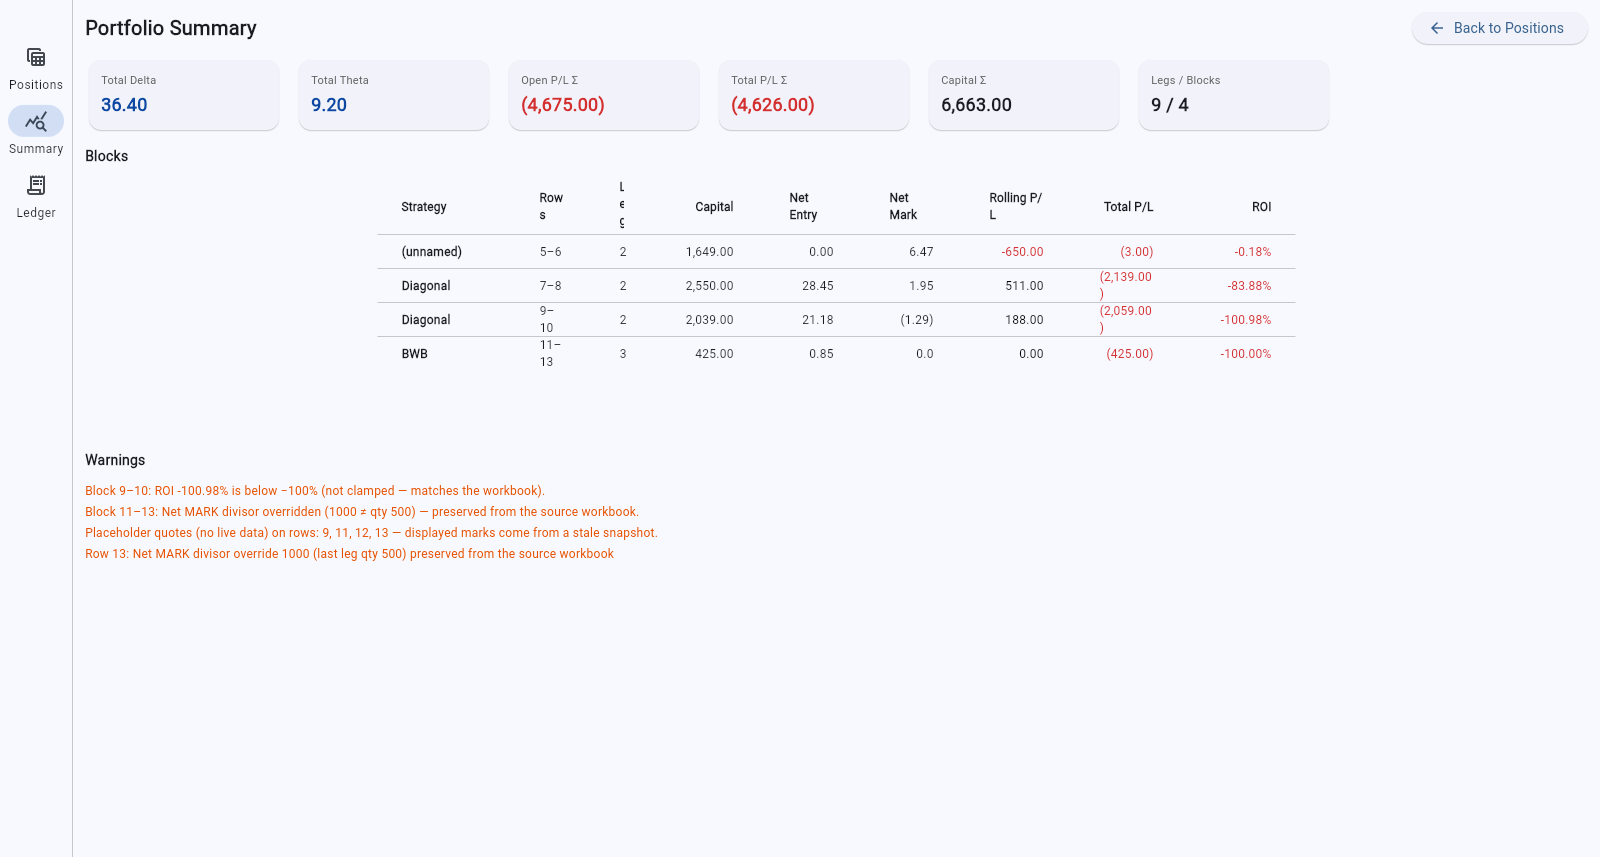
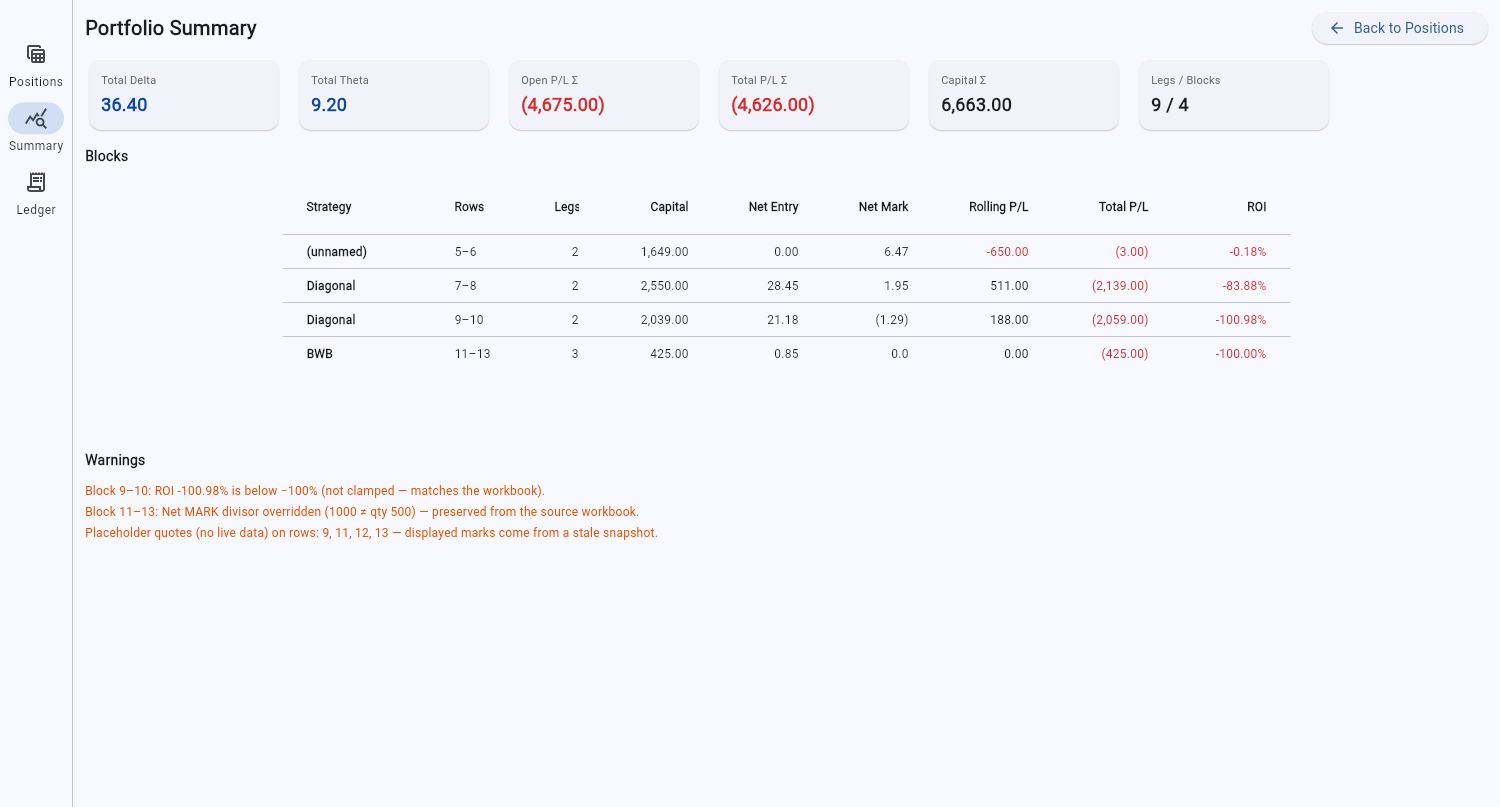
Update test report and summary screenshot for the six defect fixes
Mark DEF-1..DEF-6 fixed with their resolutions, move the suite counts to
412 passed / 0 xfailed, and regenerate docs/screenshots/summary.png from a
live flet run --web build: single-line headers and one Net MARK divisor
warning.

diff --git a/docs/test_report.md b/docs/test_report.md
@@ -1,12 +1,13 @@
 # OTP Tracker — Test Report
 
 **Task:** `t_68d30dd1` — *Test the Flet dashboard against OTPTracker.xlsx entries*
-**Application:** `~/projects/option-dboard-2` (git `master` @ `50e309d`)
+**Application:** `~/projects/option-dboard-2` (git `master`)
 **Report date:** 2026-11-07
 **Verdict:** **PASS for data correctness.** All 73 workbook golden cells match the
 original in three independent passes (fixture, live workbook, export→re-import).
-Four documented defects remain open (none changes a computed value); they are
-pinned by `xfail(strict=True)` tests and routed to `coder` as a follow-up card.
+The six defects reported here were fixed under `t_aa7db0b2`; the four functional
+ones are now guarded by ordinary (non-xfail) regression tests and the two visual
+ones were re-checked in a running web build.
 
 ---
 
@@ -26,7 +27,7 @@ pinned by `xfail(strict=True)` tests and routed to `coder` as a follow-up card.
 
 ```bash
 cd ~/projects/option-dboard-2
-.venv/bin/python -m pytest -q                 # 412 tests: 408 pass, 4 xfail
+.venv/bin/python -m pytest -q                 # 412 tests: 412 pass, 0 xfail
 .venv/bin/python scripts/verify_acceptance.py # 73 golden cells × 3 passes
 .venv/bin/python scripts/verify_ui_smoke.py   # headless control-tree smoke
 ```
@@ -38,7 +39,7 @@ gets a fresh copy of the seed and a `tmp_path` store; it never writes
 ## 3. Result summary
 
 ```
-408 passed, 4 xfailed in 20.49s   (412 collected)
+412 passed in 21.95s   (412 collected)
 ```
 
 | Suite | Tests | What it pins |
@@ -54,8 +55,9 @@ gets a fresh copy of the seed and a `tmp_path` store; it never writes
 | `test_acceptance_fixtures.py` | 19 | §14.2 golden table + structure/quotes/purple/ledger/display |
 | **Total** | **412** | |
 
-`xfail(strict=True)` counts are included above; a future fix flips them to
-`XPASS`, which fails the suite and forces the defect entry to be removed.
+`xfail(strict=True)` markers were removed once each fix landed; the four tests
+that used to pin the functional defects are now plain regression tests, so a
+re-break fails the suite.
 
 ## 4. Data parity — the acceptance gate
 
@@ -142,20 +144,23 @@ HTTP 200, then driven in headless Chromium via CDP (screenshots in
 | Screenshot | What was verified |
 |---|---|
 | `positions.png` | Title/banners/as-of, 26-column grid, real values incl. `(1,170.00)`, totals strip `36.40 / 9.20 / (4,626.00) / 6,663.00`, status reports the imported file |
-| `summary.png` | Cards `36.40`, `9.20`, `(4,675.00)`, `(4,626.00)`, `6,663.00`, `9 / 4`; four block rows with correct ROI `-0.18% / -83.88% / -100.98% / -100.00%`; warning list |
+| `summary.png` | Regenerated after the DEF-5/DEF-6 fixes: cards `36.40`, `9.20`, `(4,675.00)`, `(4,626.00)`, `6,663.00`, `9 / 4`; four block rows with correct ROI `-0.18% / -83.88% / -100.98% / -100.00%`; header labels “Rows”, “Legs”, “Rolling P/L”, “Total P/L” on one line; exactly one Net MARK divisor warning |
 | `ledger.png` | Feb/Mar 2022 groups, NKE/GLD/ADBE/FB/SPX/XOP, `(354.00)` style, GLD extra `-680.00`, footer totals |
 | `add_leg_dialog.png` | Add-Leg modal: all fields, BWB strategy, pre-filled capital 425 / divisor 1000, Cancel/Save, no clipping |
 | `market_hidden.png` | Toggle reads “Show market data (N–W)”; N–W columns absent; totals unchanged |
 
-No value mismatch was seen in the running app. Visual defects found: DEF-5 and
-DEF-6 below.
+No value mismatch was seen in the running app. Visual defects DEF-5 and DEF-6
+were found in the first pass and re-verified fixed against a fresh web run
+(`flet run --web -p 8550`, headless Chromium over CDP).
 
-## 7. Open defects
+## 7. Defects (all fixed)
 
-All are pinned by `xfail(strict=True)` tests so they cannot silently regress.
-None affects a computed cell or the Excel acceptance table.
+Every defect below was fixed in production code only; none affects a computed
+cell or the Excel acceptance table. The four functional ones are now guarded by
+ordinary regression tests (the `xfail(strict=True)` markers were removed, so a
+re-break fails the suite).
 
-### DEF-1 — Roll parser corrupts pair-only literals (P2, functional)
+### DEF-1 — Roll parser corrupts pair-only literals (P2, functional) — **FIXED**
 
 `src/otp_tracker/models.py:261-266` (`RollLedger.from_expression`)
 
@@ -167,10 +172,14 @@ None affects a computed cell or the Excel acceptance table.
   `-150.0`. Same for two pairs without a trailing credit: `-350.0` instead of
   `150.0`.
 - **Repro:** `tests/test_models.py::test_pair_only_literal_round_trip`.
+- **Fix:** `from_expression` no longer peels parentheses; it consumes every
+  `(new-closed)` group structurally and treats the wrapper as punctuation.
+  `=((2-1.5))*100` → pair `(2.0, 1.5)`, value `50.0`; the two-pair literal
+  `=((2-1.5)+(3-2))*100` → `150.0`.
 - **Impact:** pasting a valid single-pair/two-pair literal into the Roll dialog
   (or re-parsing a rendered pair-only ledger) silently changes X.
 
-### DEF-2 — Roll parser accepts garbage silently (P3, defensive)
+### DEF-2 — Roll parser accepts garbage silently (P3, defensive) — **FIXED**
 
 `src/otp_tracker/models.py:251-269`
 
@@ -180,9 +189,12 @@ None affects a computed cell or the Excel acceptance table.
   and `value() == 0.0`; only a partial `"=(1.34-1.55)*100"` is misread as a
   credit (DEF-1).
 - **Repro:** `tests/test_models.py::test_unparseable_literal_raises`.
+- **Fix:** after pair/credit extraction, anything left that is not grouping
+  punctuation raises `ValueError`; a literal with no pair and no credit also
+  raises. Blank text, `"="` and `0` keep their existing meaning.
 - **Impact:** a typo can silently wipe a roll ledger instead of blocking Save.
 
-### DEF-3 — Block-level fields offered on non-last rows (P3, UX/functional)
+### DEF-3 — Block-level fields offered on non-last rows (P3, UX/functional) — **FIXED**
 
 `src/otp_tracker/components/position_dialog.py:107-121` (fields always built),
 `:185-187` (values only applied when `leg.sheet_row == target_block.row_end`).
@@ -192,8 +204,11 @@ None affects a computed cell or the Excel acceptance table.
 - **Actual:** editing row 7 or 9 shows “Block capital” and “Net MARK divisor
   override”, pre-filled with the block's values; Save silently ignores them.
 - **Repro:** `tests/test_widgets.py::test_non_last_row_edit_does_not_offer_block_level_fields`.
+- **Fix:** both fields are only built — and only parsed/applied — when the dialog
+  is not an edit, or the edited leg is the block's `row_end`. No value can be
+  entered and then silently dropped.
 
-### DEF-4 — Export→import loses structured roll history (P2, data fidelity)
+### DEF-4 — Export→import loses structured roll history (P2, data fidelity) — **FIXED**
 
 `src/otp_tracker/excel_io.py:536-537` writes
 `X{row}` comment `"Roll ledger: <literal>"`; `_import_roll` (`:342-353`) only
@@ -205,10 +220,15 @@ reads the formula/value and ignores that comment.
   `-6.5`; `X` keeps the correct value (`-650`) and `literal_zero` survives, but
   the breakdown is gone and the re-exported tooltip becomes `=(-6.5)*100`.
 - **Repro:** `tests/test_excel_io.py::test_export_import_round_trip_preserves_roll_pair_history`.
+- **Fix:** `_import_roll` now falls back to the `Roll ledger: …` cell comment
+  when there is no formula (formula → comment → value), so pairs and credits
+  survive a round trip. The value fallback is unchanged for workbooks without
+  the comment, and `test_export_import_round_trip_preserves_roll_values` stays
+  green.
 - **Impact:** values stay correct; roll-event history is lost on a documented
   persistence path.
 
-### DEF-5 — Summary table headers wrap character-by-character (P3, visual)
+### DEF-5 — Summary table headers wrap character-by-character (P3, visual) — **FIXED**
 
 `src/otp_tracker/views/summary_view.py:29-34` (`_column` label has no
 `no_wrap`/`overflow`) and `:90` (`Legs` fixed_width 60; `Rows` 80 at `:89`).
@@ -216,10 +236,14 @@ reads the formula/value and ignores that comment.
 - **Expected:** headers “Rows”, “Legs” render on one line.
 - **Actual:** in the live app “Legs” wraps to `L / e / g / s` and “Rows” to
   `Row / s`; “Rolling P/L” wraps mid-word.
-- **Evidence:** `docs/screenshots/summary.png`.
+- **Evidence:** `docs/screenshots/summary.png` (pre-fix shot showed `L/e/g/s`).
+- **Fix:** header labels set `no_wrap=True, overflow=CLIP`; column widths widened
+  (`Strategy` 120, `Rows` 100, `Legs` 80, `Net Entry`/`Net Mark` 110,
+  `Rolling P/L`/`Total P/L` 120, `min_width` 980). Re-verified in the running web
+  build: every header renders on one line, nothing clipped.
 - **Impact:** readability only; values are correct.
 
-### DEF-6 — Duplicate K-divisor warning in Summary (P3, visual)
+### DEF-6 — Duplicate K-divisor warning in Summary (P3, visual) — **FIXED**
 
 `src/otp_tracker/views/summary_view.py:105-125` adds its own
 “Block 11–13: Net MARK divisor overridden…” and then appends
@@ -228,7 +252,12 @@ reads the formula/value and ignores that comment.
 
 - **Expected:** one warning per issue.
 - **Actual:** the live Summary shows both lines; the smoke test proves both.
-- **Evidence:** `docs/screenshots/summary.png`.
+- **Evidence:** `docs/screenshots/summary.png` (pre-fix shot showed both lines).
+- **Fix:** the summary records which block rows already carry a block-level
+  divisor warning and drops the importer's matching `Row N: Net MARK divisor
+  override …` line (exact duplicates are dropped too). The regenerated live
+  screenshot shows exactly one divisor warning, with the importer's message still
+  intact in the import status/report.
 - **Impact:** visual noise only.
 
 ## 8. Accepted deviations (not defects)
